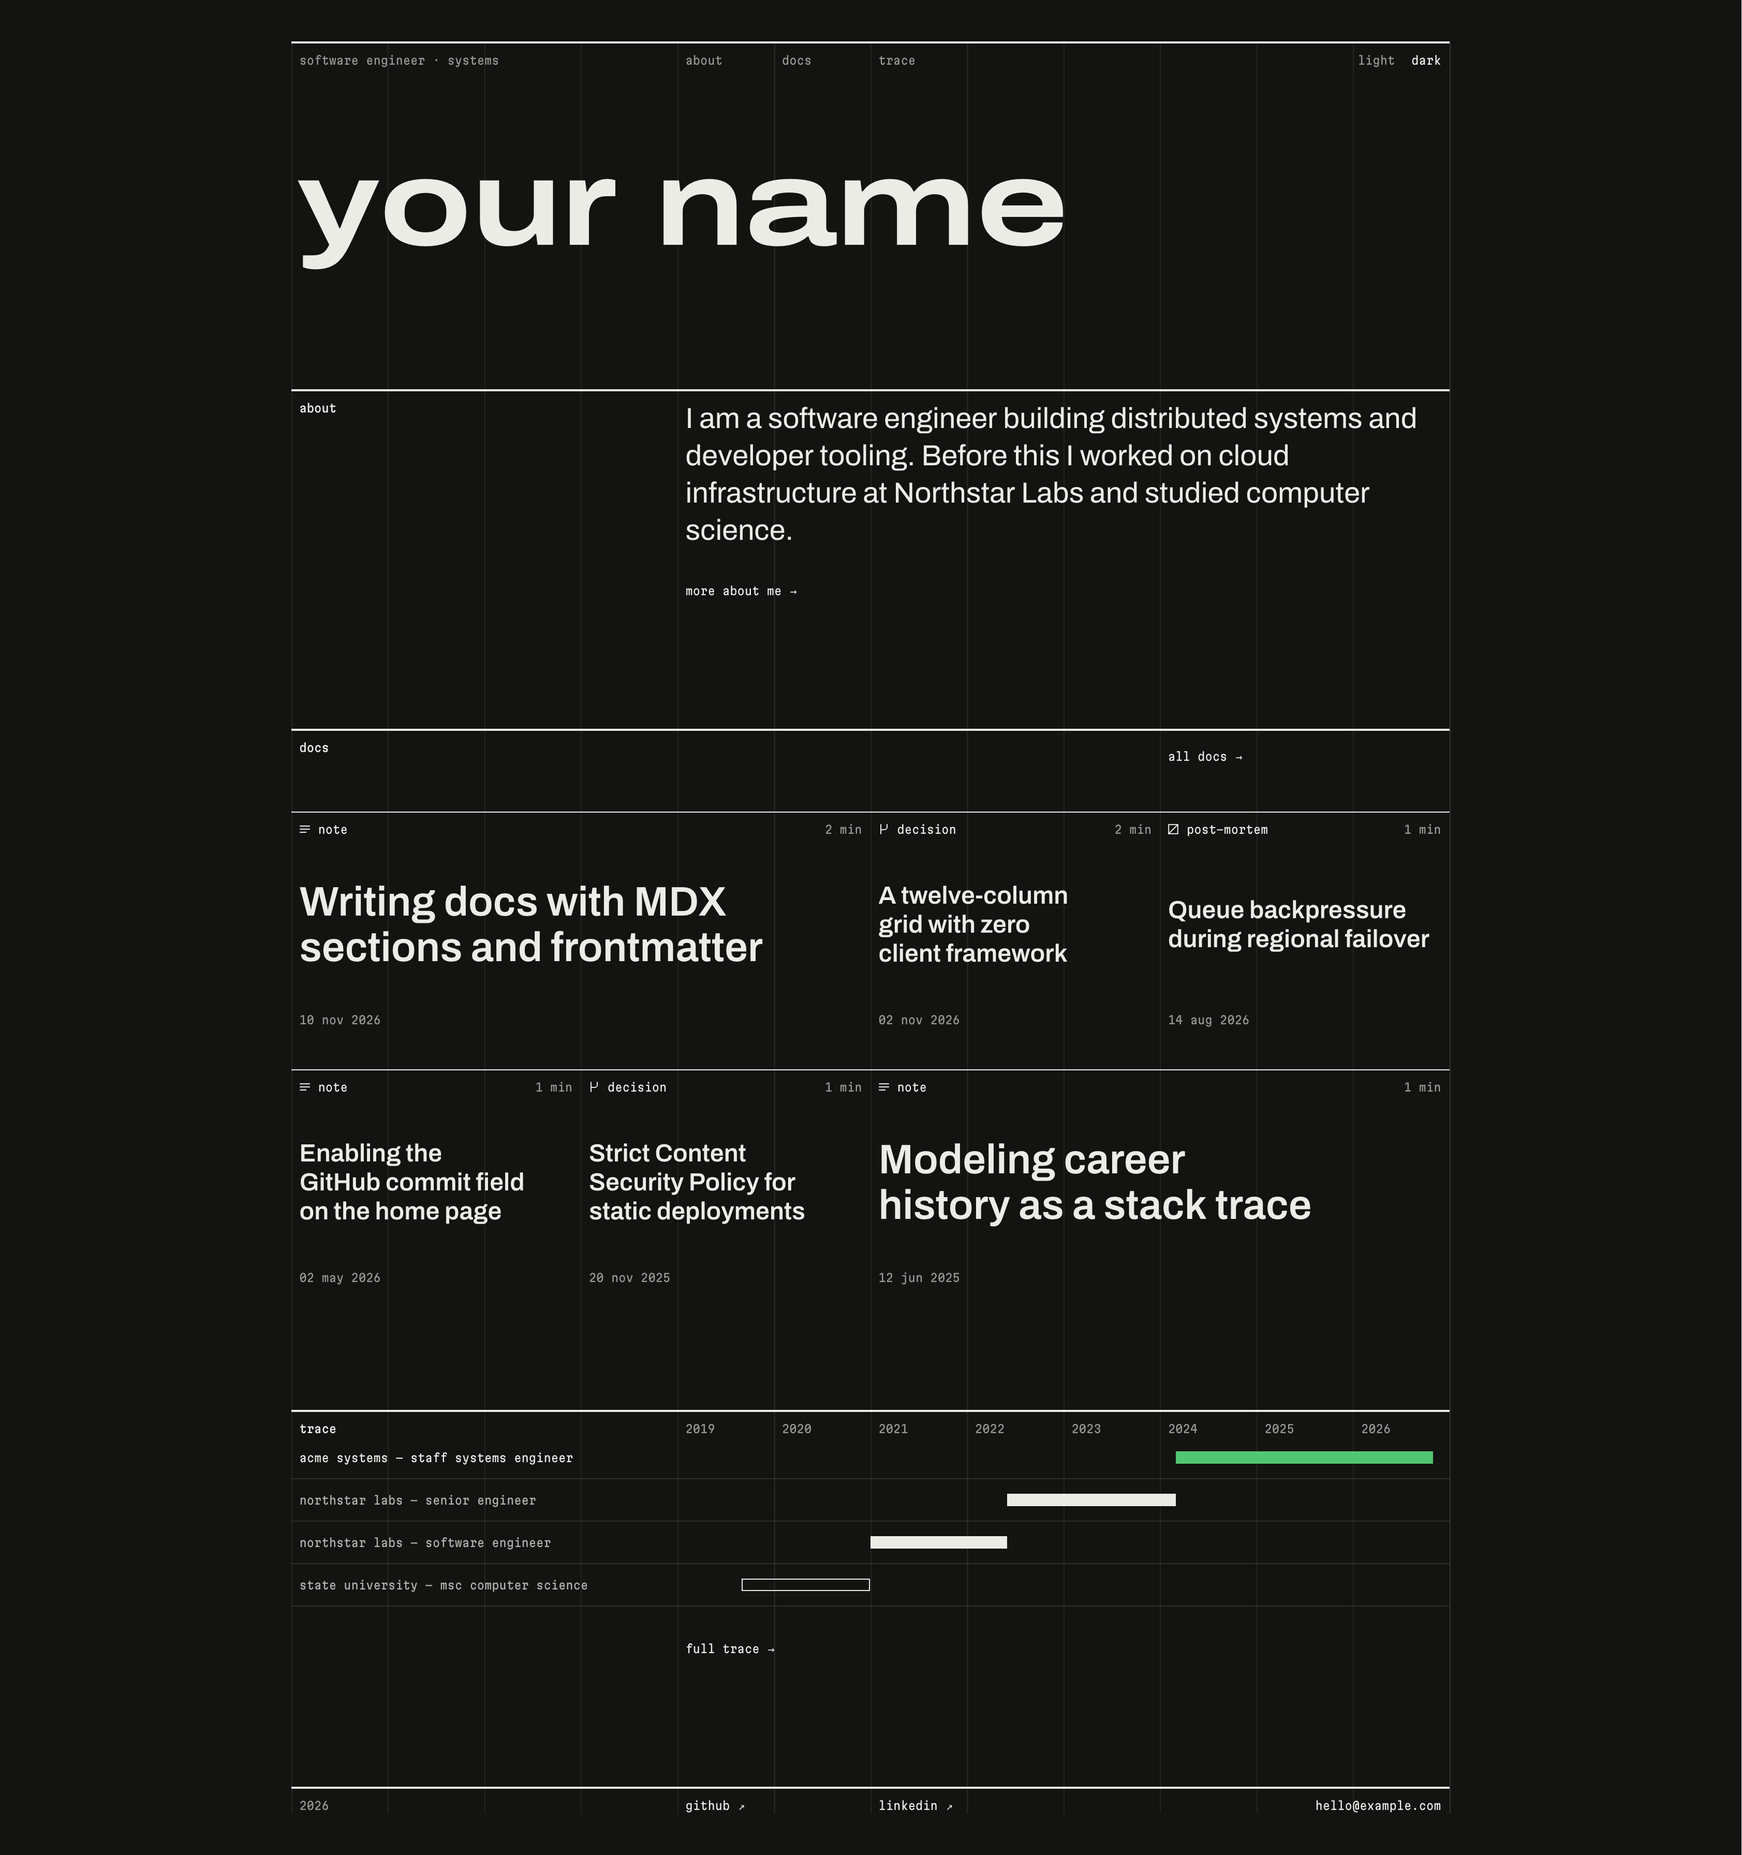
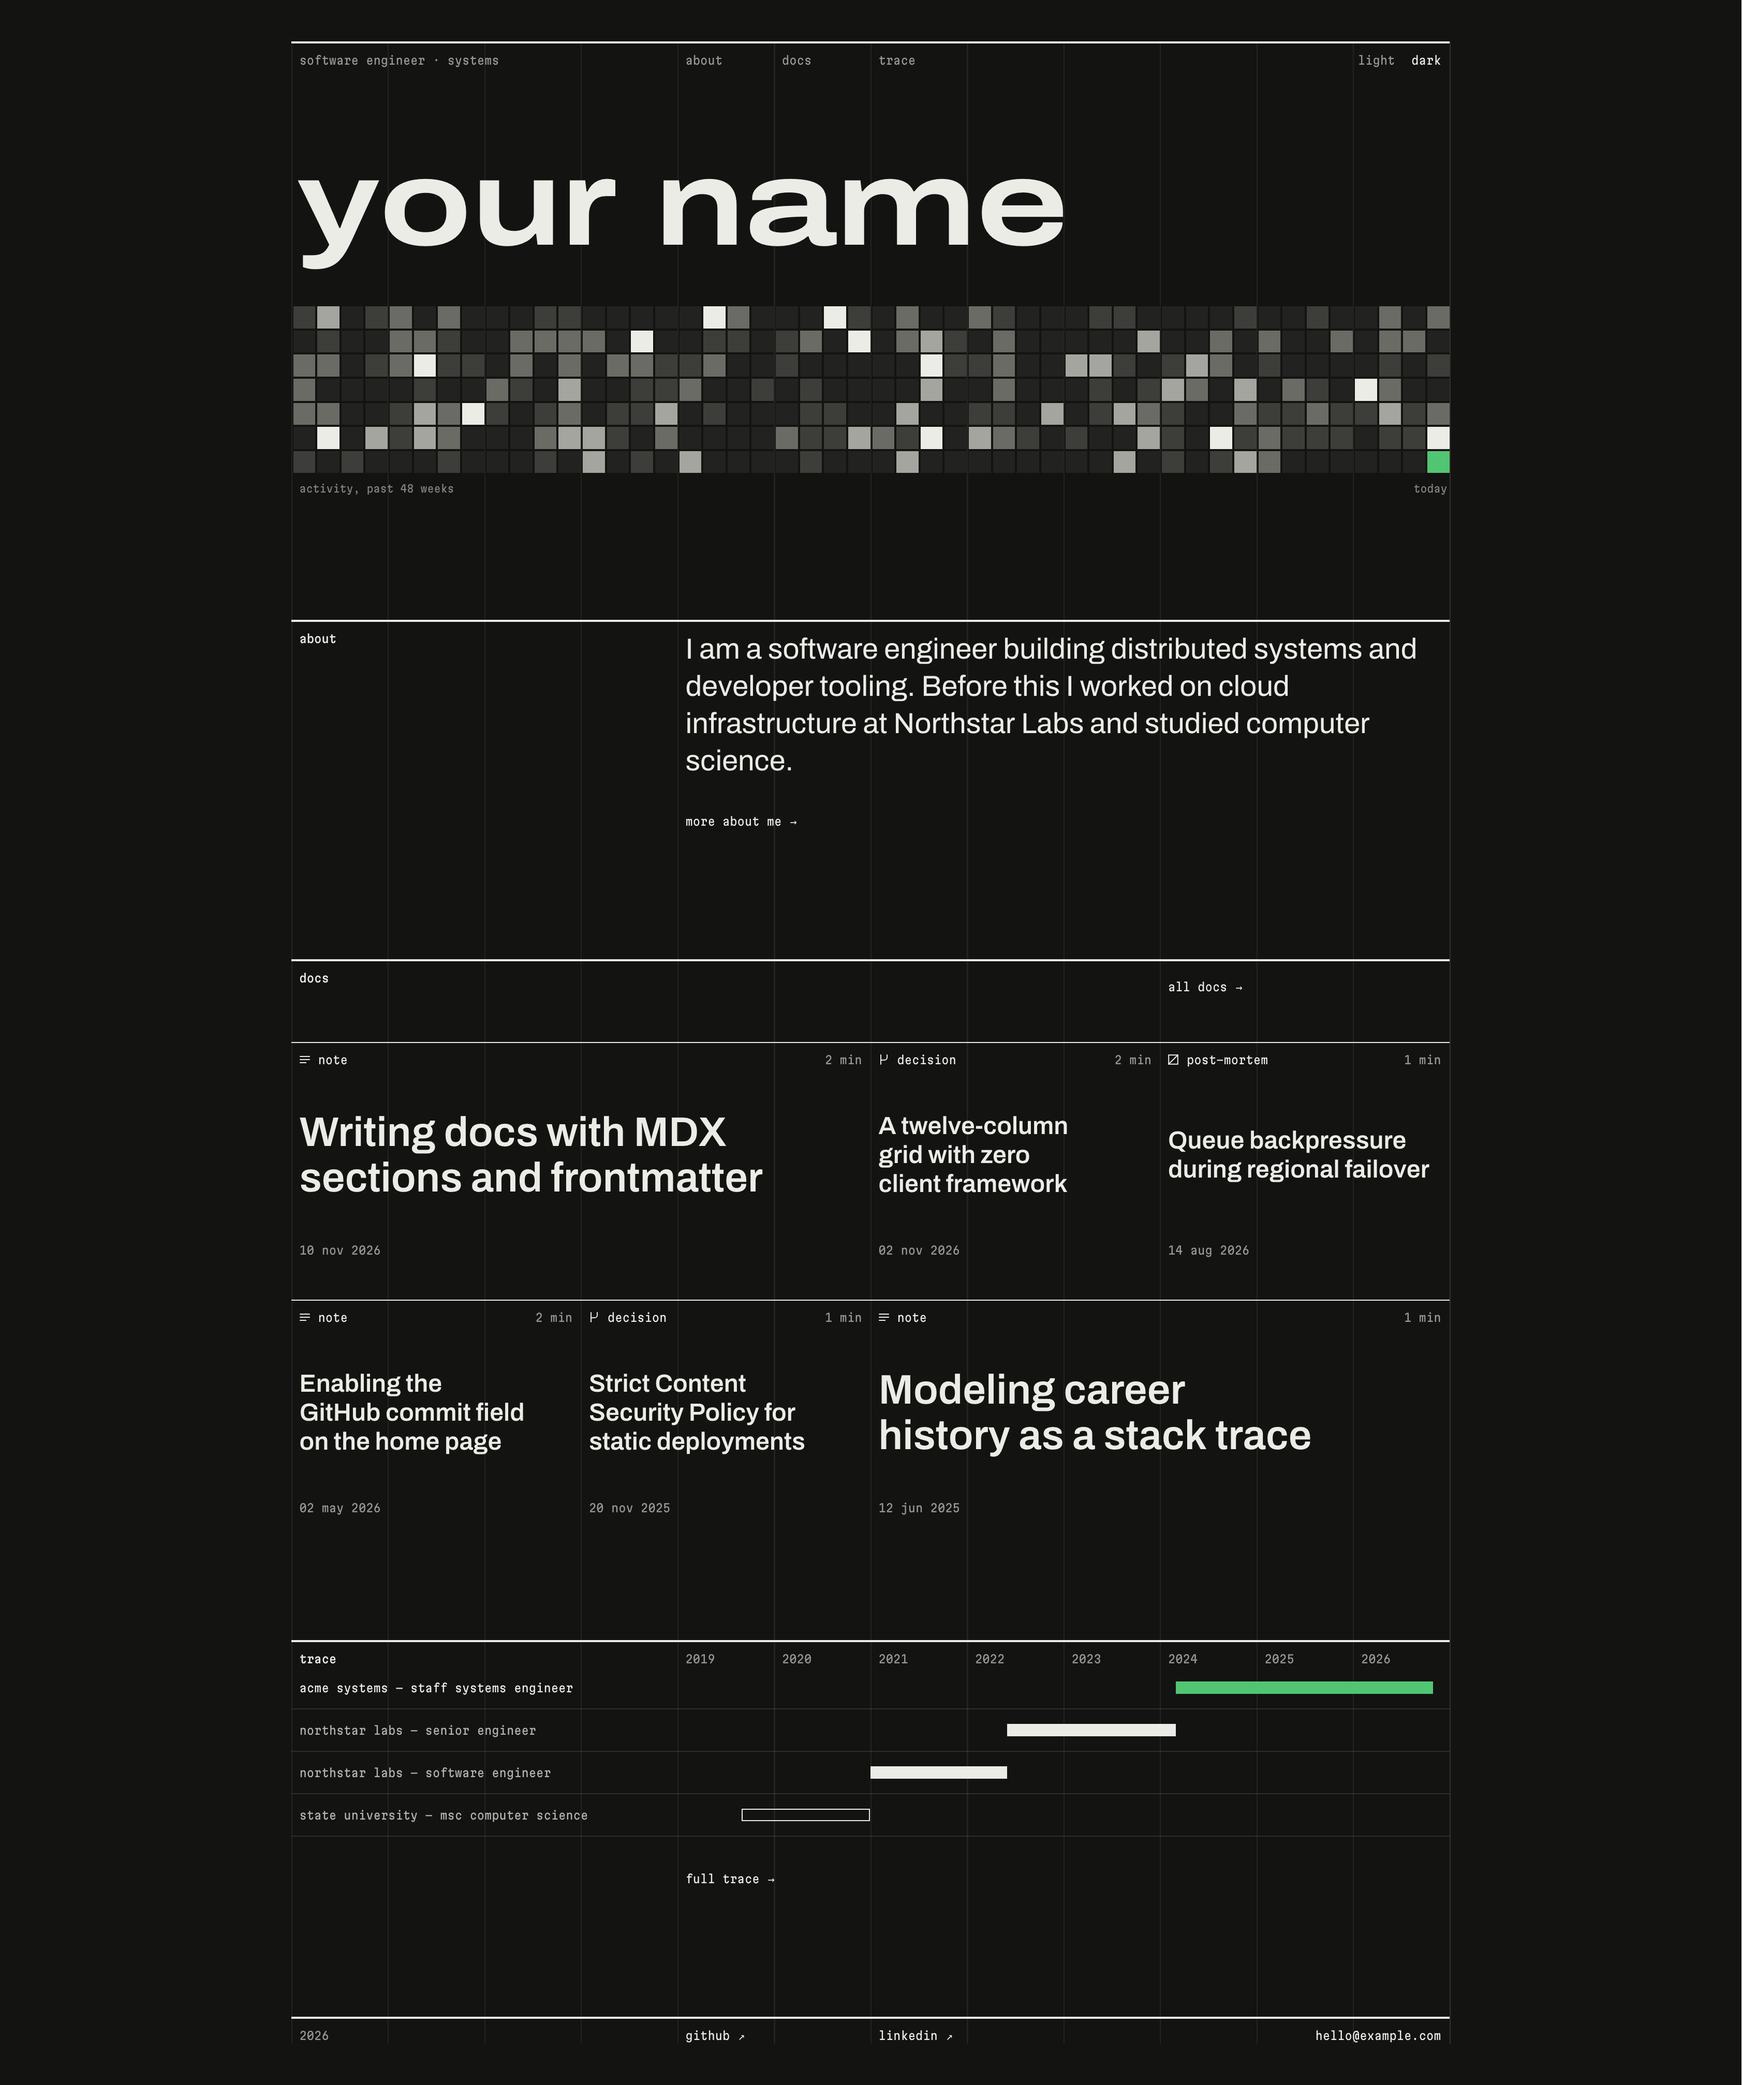
Include sample github activity

diff --git a/src/lib/github.ts b/src/lib/github.ts
@@ -6,6 +6,42 @@ const DAYS = WEEKS * 7;
 /** A day's contribution level, the five steps of --heat-0 to --heat-4. */
 export type Level = 0 | 1 | 2 | 3 | 4;
 
+export interface CommitFieldData {
+  levels: Level[];
+  /** Caption prefix: 'github' for live API data, 'activity' for the built-in template sample. */
+  label: 'github' | 'activity';
+}
+
+export interface CommitFieldOptions {
+  /** Render a deterministic sample grid when no GitHub users are configured. */
+  sample?: boolean;
+}
+
+/** Deterministic 48-week sample activity for the unconfigured template preview. */
+function sampleLevels(): Level[] {
+  return Array.from({ length: DAYS }, (_, day) => {
+    const week = Math.floor(day / 7);
+    const weekday = day % 7;
+    const isWeekend = weekday === 0 || weekday === 6;
+
+    // Deterministic hash combining day and week so the 48-week grid looks organic without repeating stripes.
+    let h = Math.imul(day + 17, 0x45d9f3b) ^ Math.imul(week + 31, 0x27d4eb2d);
+    h = Math.imul(h ^ (h >>> 15), 0x85ebca6b);
+    const roll = ((h ^ (h >>> 13)) >>> 0) % 100;
+
+    // Periodic sprint bursts across weeks, lighter activity on weekends.
+    const burst = week % 11 >= 3 && week % 11 <= 6 ? 12 : 0;
+    const activeCutoff = (isWeekend ? 26 : 56) + burst;
+    if (roll >= activeCutoff) return 0;
+
+    const score = roll / activeCutoff;
+    if (score < 0.42) return 1;
+    if (score < 0.72) return 2;
+    if (score < 0.9) return 3;
+    return 4;
+  });
+}
+
 const QUERY = `
   query ($login: String!) {
     user(login: $login) {
@@ -65,16 +101,23 @@ async function fetchUserDays(login: string): Promise<ContributionDay[]> {
 
 /**
  * Contribution levels (0–4) for the past 48 weeks, oldest day first, ending today.
- * Combines contribution counts across one or more accounts and maps them to quartile levels.
- * Returns null without a token or when GitHub cannot be reached; the home page
- * then leaves the commit field out rather than show made-up activity.
+ * When `logins` is empty and `options.sample` is true, returns deterministic sample activity for the template.
+ * Once `logins` is configured, queries GitHub's GraphQL API across all accounts using `GITHUB_TOKEN`,
+ * returning null without a token or on fetch failure rather than showing synthetic activity for a real profile.
  */
-export async function getContributionLevels(logins: string | readonly string[]): Promise<Level[] | null> {
-  const userList = Array.isArray(logins) ? logins : [logins];
-  if (userList.length === 0) return null;
+export async function getContributionLevels(
+  logins: string | readonly string[],
+  options: CommitFieldOptions = {}
+): Promise<CommitFieldData | null> {
+  const userList = (Array.isArray(logins) ? logins : [logins]).map((login) => login.trim()).filter(Boolean);
+  if (userList.length === 0) {
+    return options.sample ? { levels: sampleLevels(), label: 'activity' } : null;
+  }
 
   if (!GITHUB_TOKEN) {
-    console.warn('[github] GITHUB_TOKEN is not set; leaving the commit field out');
+    console.warn(
+      `[github] GITHUB_TOKEN is not set; omitting the commit field for ${userList.join(', ')} (add GITHUB_TOKEN in .env or CI to enable)`
+    );
     return null;
   }
 
@@ -96,15 +139,18 @@ export async function getContributionLevels(logins: string | readonly string[]):
     const maxCount = Math.max(...recentCounts);
 
     if (maxCount === 0) {
-      return recentCounts.map(() => 0);
+      return { levels: recentCounts.map(() => 0), label: 'github' };
     }
 
     if (maxCount <= 4) {
-      return recentCounts.map((count) => Math.min(4, count) as Level);
+      return { levels: recentCounts.map((count) => Math.min(4, count) as Level), label: 'github' };
     }
 
     const step = maxCount / 4;
-    return recentCounts.map((count) => (count === 0 ? 0 : (Math.min(4, Math.ceil(count / step)) as Level)));
+    return {
+      levels: recentCounts.map((count) => (count === 0 ? 0 : (Math.min(4, Math.ceil(count / step)) as Level))),
+      label: 'github'
+    };
   } catch (error) {
     console.warn(`[github] ${error instanceof Error ? error.message : error}; leaving the commit field out`);
     return null;

diff --git a/src/data/site.ts b/src/data/site.ts
@@ -30,6 +30,8 @@ export interface SiteConfig {
   email?: string;
   /** Optional GitHub usernames queried at build time (requires GITHUB_TOKEN) for the home commit field. */
   githubUsers: readonly string[];
+  /** Show a deterministic sample commit field when githubUsers is empty. Omit or set to false to hide. */
+  sampleCommits?: boolean;
   /** Social profiles rendered in the footer, /about elsewhere list, and schema.org sameAs. */
   socials: readonly SocialLink[];
   nav: readonly NavItem[];
@@ -49,6 +51,7 @@ export const SITE: SiteConfig = {
   description: `Personal website of Your Name, software engineer. ${tagline}`,
   email: 'hello@example.com',
   githubUsers: [],
+  sampleCommits: true,
   socials: [
     { label: 'github', value: 'your-handle', url: 'https://github.com/your-handle' },
     { label: 'linkedin', value: 'in/your-handle', url: 'https://linkedin.com/in/your-handle' }

diff --git a/README.md b/README.md
@@ -22,7 +22,7 @@ Built on a visible twelve-column CSS subgrid with zero client-side UI frameworks
 - **Zero client framework**: Static HTML/CSS with native cross-document `@view-transition` and three tiny inline behaviors (pre-paint theme switcher, `/docs` kind filter, code copy button).
 - **Engineering docs collection**: Type-checked MDX in `src/content/docs/` supporting post-mortems (`pm`), architecture decision records (`adr`), and notes (`note`), with automatic reading time, header `facts`, and `<Timeline />` chronologies.
 - **Career trace explorer**: Eight-year career/study bar timeline (`src/data/trace.ts`) with expandable organization drawers and linked documents (`trace: <id>`).
-- **Optional GitHub commit field**: Build-time 48-week contribution calendar aggregated across one or more GitHub accounts (`GITHUB_TOKEN`).
+- **Optional GitHub commit field**: Build-time 48-week contribution calendar aggregated across one or more GitHub accounts (`GITHUB_TOKEN`), with a built-in deterministic sample grid out of the box.
 - **SEO & security**: Generated `rss.xml`, `sitemap-index.xml`, `robots.txt`, JSON-LD (`Person`, `WebSite`, `TechArticle`, `CollectionPage`), and build-time CSP (`security.csp`).
 
 ## Quick start
@@ -48,7 +48,7 @@ Node 26 and pnpm 12 are pinned in `mise.toml` and `package.json` (`packageManage
 You can personalize the entire site by editing five places—no component or page template changes required:
 
 1. **`astro.config.mjs`**: Set `site` to your production URL (used for canonical URLs, RSS, sitemap, and `robots.txt`).
-2. **`src/data/site.ts`**: Update `name`, `fullName`, `role`, `jobTitle`, `company`, `tagline`, `description`, `email`, `socials` (any label/handle/URL list), `nav`, and optional `githubUsers`.
+2. **`src/data/site.ts`**: Update `name`, `fullName`, `role`, `jobTitle`, `company`, `tagline`, `description`, `email`, `socials` (any label/handle/URL list), `nav`, `githubUsers`, and `sampleCommits`.
 3. **`src/data/about.ts`**: Update `homeStatement`, `description`, `now`, `before` paragraphs, and `colophon`.
 4. **`src/data/trace.ts`**: Replace the sample work and study periods. Omit `end` on your current role to highlight it with `--now` green.
 5. **`src/content/docs/*.mdx`**: Replace the sample guide/example docs with your own post-mortems, ADRs, and notes.
@@ -85,13 +85,15 @@ Every `##` heading opens a section on the grid. Keep interface headings lowercas
 
 ## GitHub commit field (optional)
 
-To enable the 48-week contribution grid on the home page:
+Out of the box, `githubUsers: []` and `sampleCommits: true` in `src/data/site.ts` render a deterministic 48-week sample grid (`activity, past 48 weeks`) on the home page.
 
-1. Add one or more GitHub usernames to `githubUsers` in `src/data/site.ts`.
+To connect your own GitHub activity:
+
+1. Add one or more GitHub usernames to `githubUsers` in `src/data/site.ts` (this automatically disables the sample preview).
 2. Copy `.env.example` to `.env` and set `GITHUB_TOKEN` with public profile read access.
-3. Add `GITHUB_TOKEN` to your CI/deployment environment variables.
+3. Add `GITHUB_TOKEN` to your CI/deployment environment variables (in GitHub Actions, save a personal access token as `GH_TOKEN` in repository secrets since GitHub reserves the `GITHUB_` prefix).
 
-When `githubUsers` is empty or `GITHUB_TOKEN` is unset, the build omits the commit field cleanly.
+When `githubUsers` is configured without `GITHUB_TOKEN`, the build logs a warning and omits the commit field rather than showing synthetic activity for your profile. To hide the commit field completely, leave `githubUsers: []` and set `sampleCommits: false`.
 
 ## Project structure
 
